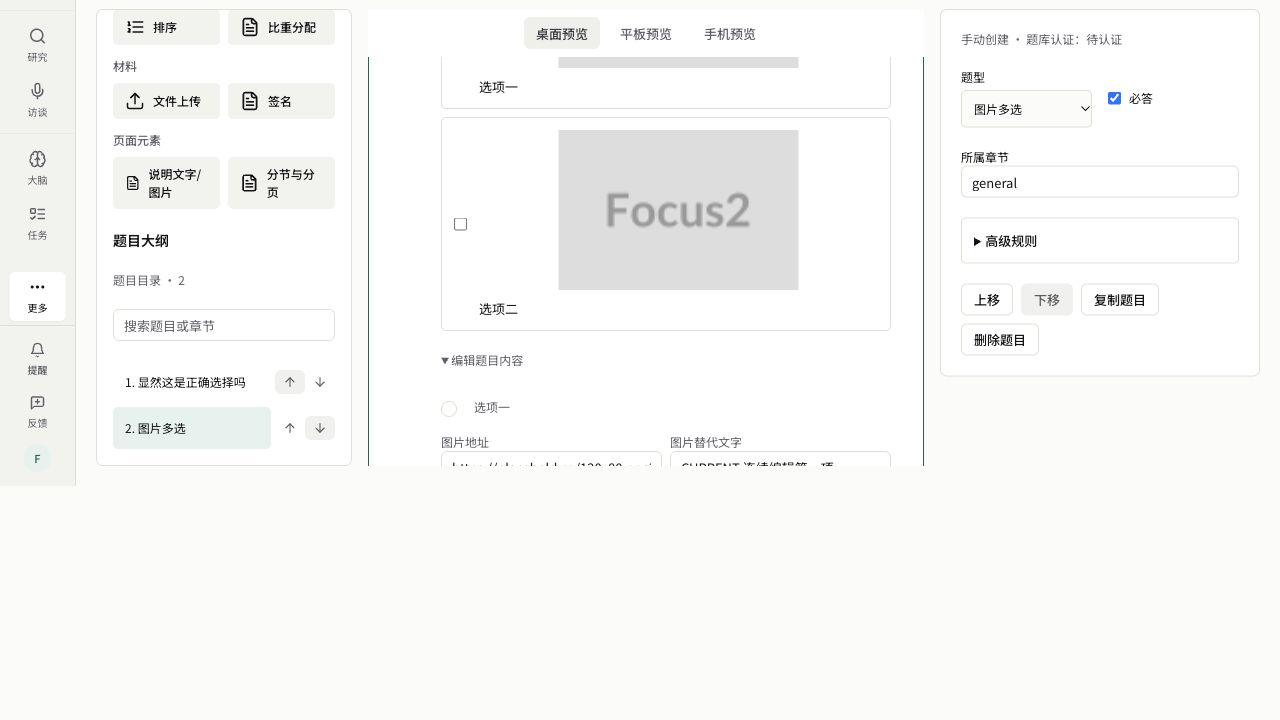
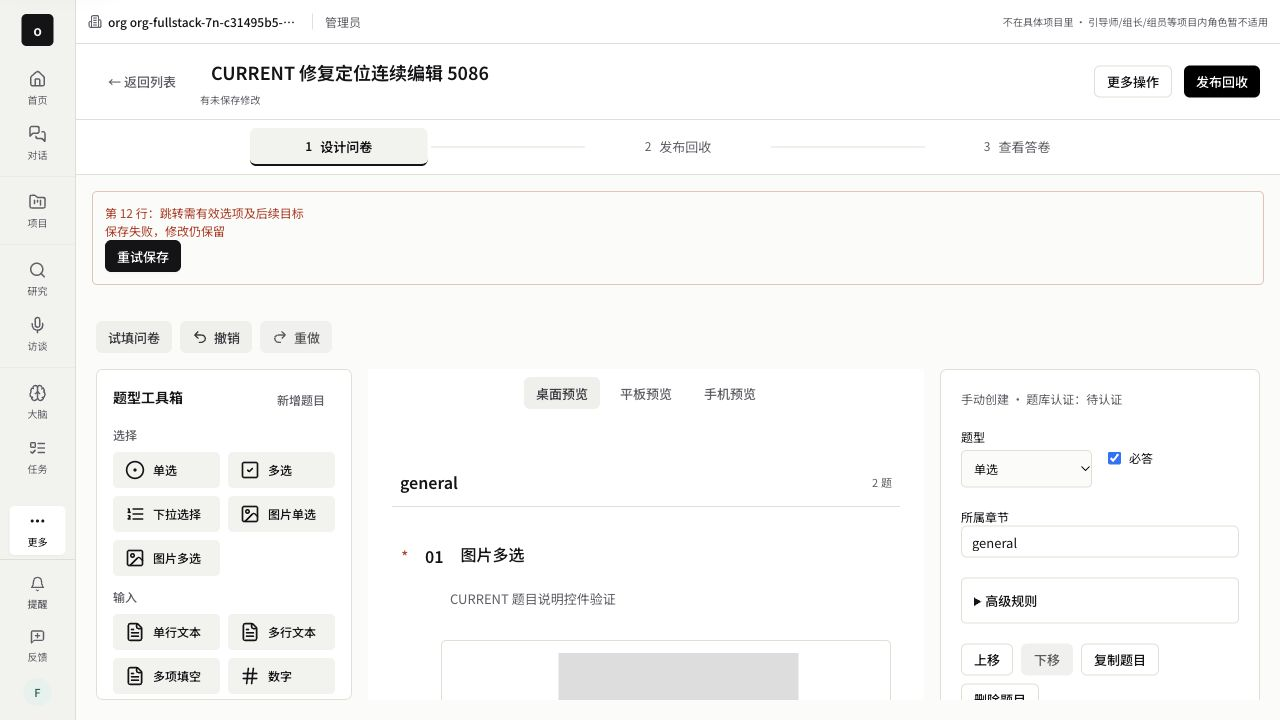
docs(survey): prove real logic repair target before continuous editing

diff --git a/docs/verification/survey-repair-focus-5086/README.md b/docs/verification/survey-repair-focus-5086/README.md
@@ -5,13 +5,13 @@ Product source: `73e58b525508b226af30c6c77b264d90aa18409d`, based on main `015f9
 The repair target is applied once per request, so editing another question does not repeatedly reselect the original target when questions change. Clearing the request allows the same target to be requested again; a target that has not loaded yet is still applied when it arrives.
 
 Real Codex in-app browser acceptance on a fresh production build:
-1. Created disposable local survey `9b32b017-67cf-4aa1-9258-a1325122322b`, with a leading single-choice question and an image multiple-choice question.
-2. Publish check returned LEADING_QUESTION. Clicked its repair action and verified question 1 selected.
-3. Selected question 2, expanded content, edited both image alternative texts consecutively and both HTTPS image URLs. Question 2 remained selected throughout.
-4. Saved, refreshed, reopened question 2. Both alternative texts and URLs persisted.
+1. Created disposable local survey `9b32b017-67cf-4aa1-9258-a1325122322b` through the UI. The current design parser blocks invalid logic on save, so the test setup backed up only this zero-response survey and injected a historical backward-jump fixture into its stored questions. This setup is not claimed as successful UI authoring. No other survey was modified.
+2. Opened a fresh browser tab and clicked publish check. It returned LOGIC_INVALID for the second question `883abe73-965e-4ea5-b5cc-1d7420688f5f`. Clicked its repair action; verified the non-first single-choice question selected, proving the target request was applied.
+3. Selected the first image multiple-choice question, expanded content and edited both alternative texts consecutively (`CURRENT LOGIC 真定位后第一项` / `CURRENT LOGIC 真定位后第二项`). The image question stayed selected and content remained expanded.
+4. Selected the logic target, removed its invalid jump through the UI, saved, refreshed and reopened the image question. Both new alternative texts and existing HTTPS URLs persisted.
 
-An initial empty-options fixture failed the design Markdown save validation and was repaired before this acceptance. It is not the successful publish-target fixture.
+Independent review rejected an earlier LEADING_QUESTION browser case because that button does not supply a target on this base. Those screenshots were replaced; the earlier case does not count as regression proof. Empty-options and backward-jump authoring attempts were correctly blocked by the save parser.
 
-Validation: meaningful red regression failed before the fix (image_single selected instead of image_multi); after fix 92 UI tests passed across responsive designer and question types, affected ESLint passed, init quick passed, fresh production build passed. Browser evidence is the three adjacent screenshots. Full all-buttons acceptance and PR CI remain separate requirements; this evidence does not certify them complete.
+Validation: meaningful red regression failed before the fix (image_single selected instead of image_multi); after fix 92 UI tests passed across responsive designer and question types, affected ESLint passed, init quick passed, fresh production build passed. Browser evidence is the four adjacent screenshots. Full all-buttons acceptance and PR CI remain separate requirements; this evidence does not certify them complete.
 
 Local logs: `/private/tmp/pr5017-remaining/fix5086-red.log`, `fix5086-green.log`, `fix5086-lint.log`, `fix5086-runtime-status.md`. Database/Minio were preserved during rebuild.
